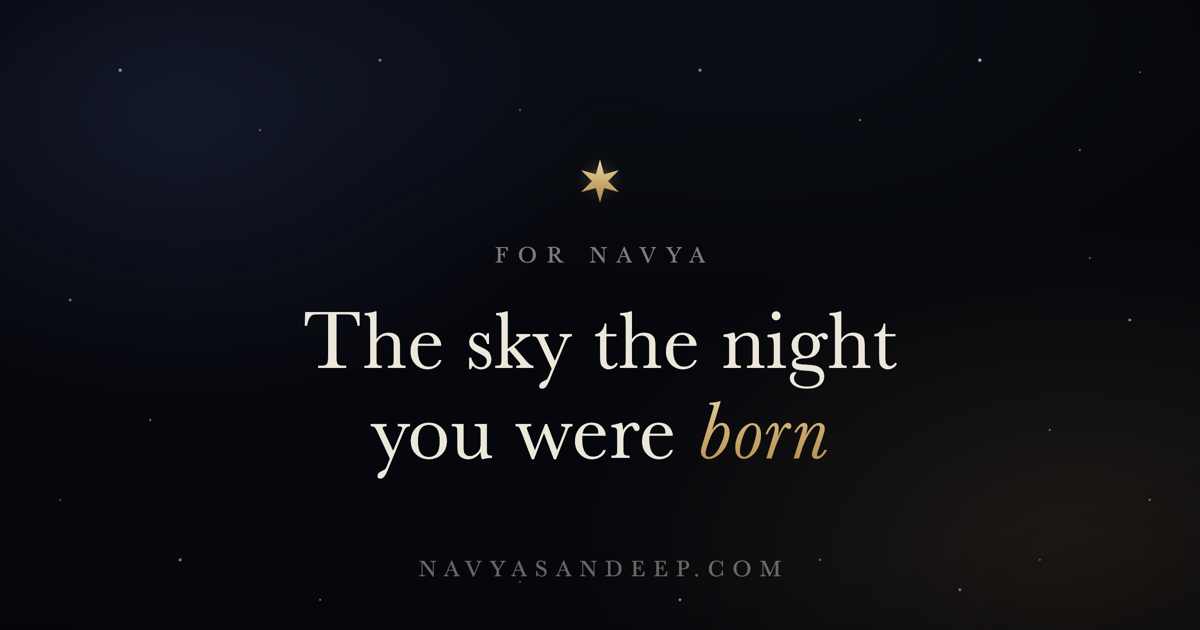
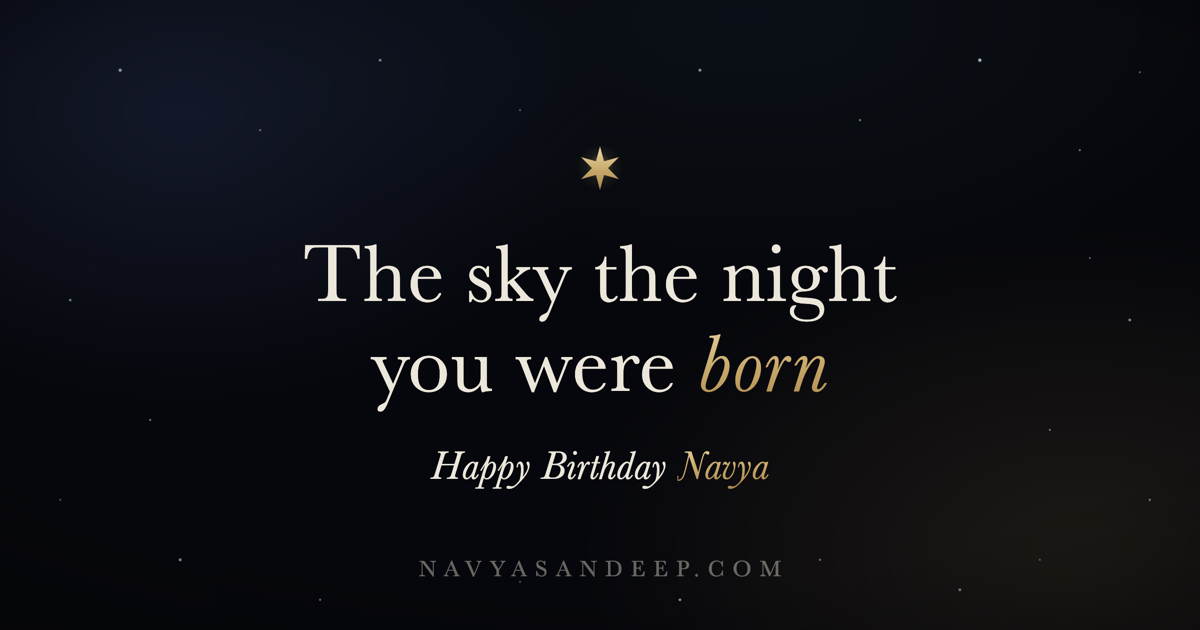
Share card: add "Happy Birthday Navya"
Add the birthday greeting beneath the hero line on the og.png share
image (Navya in gold), dropping the now-redundant "For Navya" kicker.

Changed region(s): [[0.2467, 0.3921, 0.74, 0.7841], [0.4625, 0.2413, 0.5242, 0.3317]]

diff --git a/.build/assets/og.html b/.build/assets/og.html
@@ -21,6 +21,10 @@
   .title em{font-style:italic;
     background:linear-gradient(177deg,#ecd9a8,#c8a96b 52%,#a8854a);
     -webkit-background-clip:text;background-clip:text;-webkit-text-fill-color:transparent;}
+  .wish{margin-top:34px;font-style:italic;font-size:41px;color:#ece7db;letter-spacing:.01em;}
+  .wish em{font-style:italic;
+    background:linear-gradient(177deg,#ecd9a8,#c8a96b 52%,#a8854a);
+    -webkit-background-clip:text;background-clip:text;-webkit-text-fill-color:transparent;}
   .url{position:absolute;bottom:48px;left:0;right:0;text-align:center;
     font-size:23px;letter-spacing:.36em;text-transform:uppercase;color:rgba(236,231,219,.42);padding-left:.36em;}
 </style></head><body>
@@ -57,8 +61,8 @@
         <circle cx="32" cy="32" r="27" fill="url(#g)"/>
         <path d="M32 6 L36.8 23.8 L54.5 19 L41.5 32 L54.5 45 L36.8 40.2 L32 58 L27.2 40.2 L9.5 45 L22.5 32 L9.5 19 L27.2 23.8 Z" fill="url(#gold)"/>
       </svg>
-      <div class="kicker">For Navya</div>
       <div class="title">The sky the night<br>you were <em>born</em></div>
+      <div class="wish">Happy Birthday <em>Navya</em></div>
     </div>
     <div class="url">navyasandeep.com</div>
   </div>